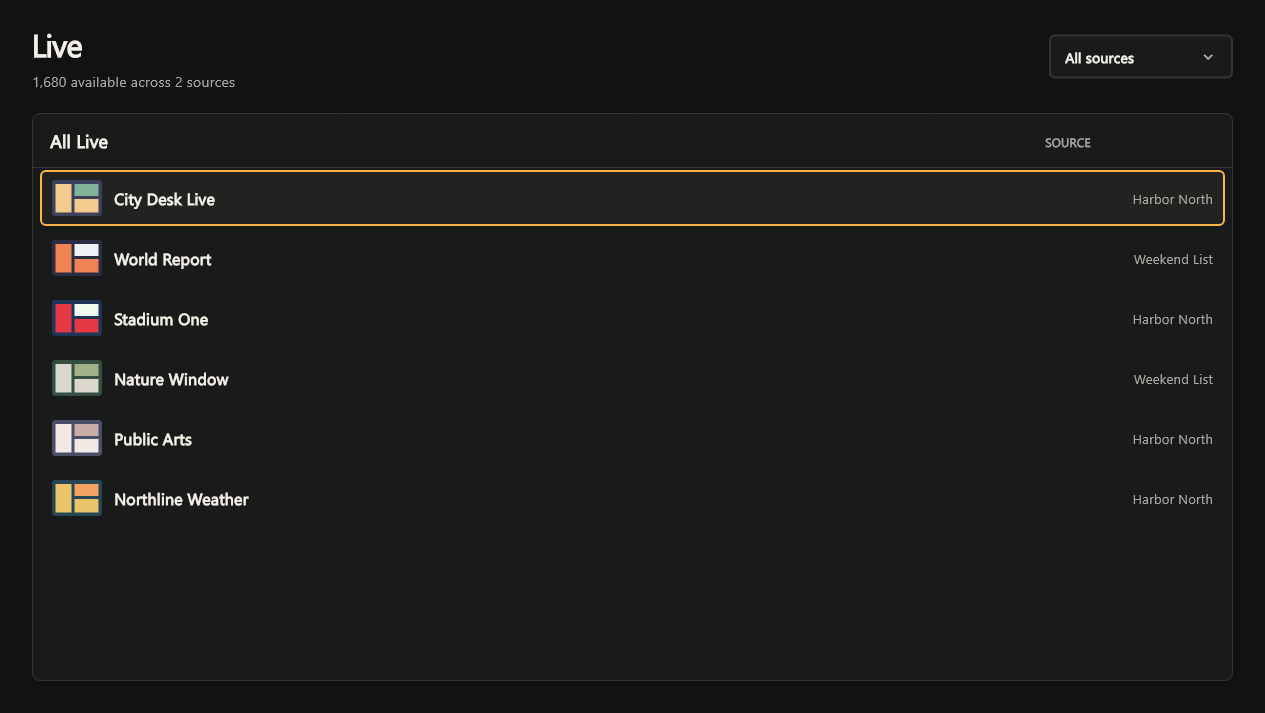
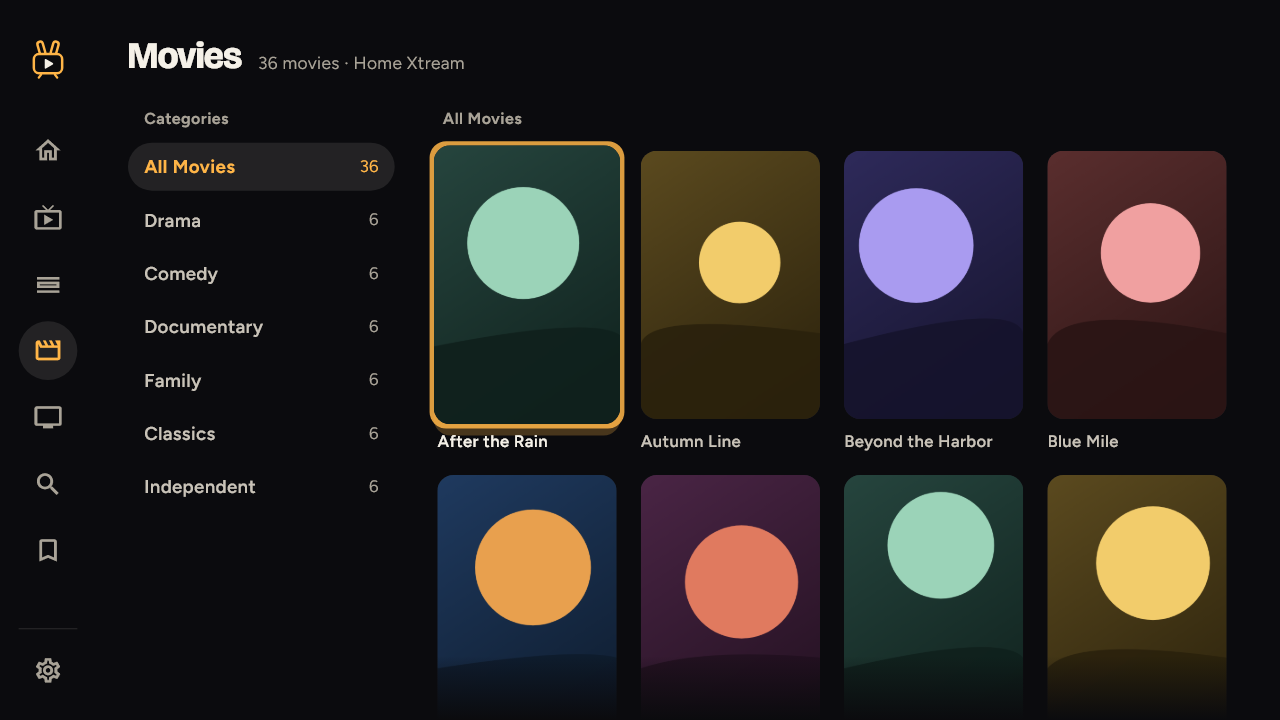
Build the Android APK in CI; refresh the README for Android TV
- CI gains an Android job (Ubuntu, JDK 17) that builds the release APK.
  Format, analyze and tests still run once, in the Windows job.
- README: Windows and Android TV, new screenshots of the redesigned
  Home, Movies, Guide and player (rendered from made-up sample data),
  Android build and sideload steps, TV remote keys, and a current
  roadmap.
- The player fixture app uses the Night Cinema theme.

diff --git a/lib/src/spikes/phase1/production_player_fixture_main.dart b/lib/src/spikes/phase1/production_player_fixture_main.dart
@@ -4,6 +4,7 @@ import 'dart:io';
 import 'package:flutter/material.dart';
 import 'package:window_manager/window_manager.dart';
 
+import '../../cinema.dart';
 import '../../features/browse/playback_handoff.dart';
 import '../../features/playback/playback_transport.dart';
 import '../../features/playback/player_screen.dart';
@@ -34,15 +35,15 @@ class _ProductionPlayerFixtureApp extends StatelessWidget {
     theme: ThemeData(
       useMaterial3: true,
       brightness: Brightness.dark,
-      scaffoldBackgroundColor: const Color(0xFF111212),
+      scaffoldBackgroundColor: Cinema.ink,
       colorScheme: const ColorScheme.dark(
-        primary: Color(0xFFFFB347),
-        onPrimary: Color(0xFF17120A),
-        surface: Color(0xFF191A1A),
-        onSurface: Color(0xFFF4F0E7),
-        secondary: Color(0xFFBEBAB1),
+        primary: Cinema.amber,
+        onPrimary: Cinema.amberInk,
+        surface: Color(0xFF16161B),
+        onSurface: Cinema.text,
+        secondary: Cinema.quiet,
       ),
-      fontFamily: 'Segoe UI',
+      fontFamily: 'Figtree',
     ),
     home: const _ProductionPlayerFixture(),
   );
@@ -66,7 +67,7 @@ class _ProductionPlayerFixtureState extends State<_ProductionPlayerFixture> {
         body: Center(
           child: Text(
             'Player fixture exited',
-            style: TextStyle(color: Color(0xFFF4F0E7), fontSize: 16),
+            style: TextStyle(color: Cinema.text, fontSize: 16),
           ),
         ),
       );
@@ -139,12 +140,12 @@ class _FixturePlaybackTransport implements PlaybackTransport {
 
   @override
   Widget buildVideo() => const ColoredBox(
-    color: Color(0xFF292A29),
+    color: Color(0xFF1E1E23),
     child: Center(
       child: Text(
         'Synthetic video fixture',
         style: TextStyle(
-          color: Color(0xFFF4F0E7),
+          color: Cinema.text,
           fontSize: 16,
           fontWeight: FontWeight.w600,
         ),

diff --git a/README.md b/README.md
@@ -4,31 +4,31 @@
 
 # Wabbit TV
 
-**A calm, fast IPTV player for Windows that brings your own sources together in one library.**
+**A calm, fast IPTV player for Windows and Android TV that brings your own sources together in one library.**
 
 [![CI](https://github.com/tcurtsinger/WabbitTV/actions/workflows/ci.yml/badge.svg)](https://github.com/tcurtsinger/WabbitTV/actions/workflows/ci.yml)
 [![License: AGPL v3](https://img.shields.io/badge/license-AGPL--3.0-blue.svg)](LICENSE)
-![Platform: Windows](https://img.shields.io/badge/platform-Windows%2010%20%7C%2011-0078D4)
+![Platforms: Windows and Android TV](https://img.shields.io/badge/platform-Windows%20%7C%20Android%20TV-0078D4)
 ![Flutter 3.47](https://img.shields.io/badge/Flutter-3.47-02569B?logo=flutter)
 
 </div>
 
-Wabbit TV turns large Xtream and M3U catalogs into one quiet, keyboard-first library. Live TV, movies and series from all your sources sit side by side, search is instant, and everything stays on your PC.
+Wabbit TV turns large Xtream and M3U catalogs into one quiet library built for a TV remote or a keyboard. Live TV, movies and series from all your sources sit side by side, search is instant, and everything stays on your device.
 
 > [!NOTE]
 > Wabbit TV supplies **no content**: no channels, playlists, movies or series. Use it only with sources you are entitled to access.
 
 <table>
   <tr>
-    <td><img src=".github/readme/home.png" alt="Home with pinned shelves and recently watched"></td>
-    <td><img src=".github/readme/browse.png" alt="Live channels from two sources in one list"></td>
+    <td><img src=".github/readme/home.png" alt="Home with a continue-watching hero, recently watched and a pinned group"></td>
+    <td><img src=".github/readme/browse.png" alt="Movies as a poster wall with categories"></td>
   </tr>
   <tr>
-    <td><img src=".github/readme/guide.png" alt="TV guide grid with now and next programs"></td>
-    <td><img src=".github/readme/multiview.png" alt="Two live channels side by side in multiview"></td>
+    <td><img src=".github/readme/guide.png" alt="TV guide with an on-now panel and a program grid"></td>
+    <td><img src=".github/readme/player.png" alt="Live player showing the current program and what's up next"></td>
   </tr>
 </table>
-<p align="center"><sub>Screenshots use the built-in synthetic sample catalog.</sub></p>
+<p align="center"><sub>Screenshots use made-up sample channels, titles and artwork.</sub></p>
 
 ## Features
 
@@ -45,34 +45,38 @@ Wabbit TV turns large Xtream and M3U catalogs into one quiet, keyboard-first lib
 
 **Watching**
 - Full-screen player with audio and subtitle tracks, resume, and watch history
+- Now and next from the guide right in the player, and a star to add the channel to Favorites
 - Corner picture-in-picture while you keep browsing, and two-channel side-by-side multiview
 - Automatic recovery from network drops, and a fallback to the same channel on another source
 - Respects your provider's connection limit
-- TV guide with now/next for Xtream live channels
+- TV guide for Xtream live channels, with a "With schedule" filter that hides channels without guide data
 - Start up on Home, any section, or straight into your last channel
 
 **Built for the couch and the desk**
-- Every screen works with arrow keys and Enter, with a clear amber focus ring
+- Runs on Windows and on Android TV, Google TV and Fire TV
+- Every screen works with a TV remote or arrow keys, with a clear amber focus ring
 - On-screen TV keyboard for remote-style text entry
 
 ## Privacy and security
 
-- **Local-first.** Your catalog, favorites, groups and history live in a SQLite database on your PC. No accounts, no telemetry, no Wabbit servers.
+- **Local-first.** Your catalog, favorites, groups and history live in a SQLite database on your device. No accounts, no telemetry, no Wabbit servers.
 - **Network use.** Wabbit TV only connects to the sources you add, and to the stream, artwork and guide addresses those sources hand it.
-- **Logins.** Xtream passwords are encrypted with your Windows account (DPAPI) and never stored in the catalog database.
+- **Logins.** Xtream passwords are encrypted with your Windows account (DPAPI) or the Android Keystore, and never stored in the catalog database.
 - **Secure streams.** HTTPS streams are verified against a bundled Mozilla root certificate list.
 
 ## Getting started
 
 There are no prebuilt releases yet, so you build it from source.
 
-### Requirements
+### Windows
+
+**Requirements**
 
 - Windows 10 or 11 (64-bit)
 - [Flutter](https://docs.flutter.dev/get-started/install/windows/desktop) 3.47 (stable)
 - Visual Studio 2022 (Build Tools are enough) with the **Desktop development with C++** workload and the **C++ ATL** component
 
-### Build and run
+**Build and run**
 
 ```powershell
 git clone https://github.com/tcurtsinger/WabbitTV.git
@@ -92,12 +96,27 @@ The app ends up at `build\windows\x64\runner\Release\wabbit_tv.exe`. Open it, ch
 > [!TIP]
 > If the build hangs while CMake detects the compiler, run `$env:TrackFileAccess = 'false'` in that PowerShell window and build again.
 
+### Android TV, Google TV and Fire TV
+
+**Requirements:** Flutter 3.47, the Android SDK (from Android Studio or the command-line tools) and JDK 17.
+
+1. Turn on **Developer options** and **ADB debugging** on the TV. On Fire TV this is under *Settings → My Fire TV*.
+2. Build the APK and install it over the network:
+
+```powershell
+flutter build apk --release
+adb connect <tv-ip-address>:5555
+adb install -r build\app\outputs\flutter-apk\app-release.apk
+```
+
+Wabbit TV then appears with your other apps. The release APK is signed with a debug key, which is fine for sideloading but not for a store.
+
 ## Keyboard shortcuts
 
 | Where | Keys | Action |
 |---|---|---|
-| Everywhere | Arrow keys, Enter | Move focus, select |
-| Everywhere | Esc | Back / open the navigation rail |
+| Everywhere | Arrow keys, Enter (TV: D-pad, Select) | Move focus, select |
+| Everywhere | Esc (TV: Back) | Back / open the navigation rail |
 | Player | Space, K, media Play/Pause | Play / pause |
 | Player | ← / → | Seek back / forward 10 s (movies and episodes; hold to keep seeking) |
 | Player | F, or double-click the video | Fullscreen on / off |
@@ -108,10 +127,10 @@ The app ends up at `build\windows\x64\runner\Release\wabbit_tv.exe`. Open it, ch
 ```powershell
 dart format lib test   # formatting
 flutter analyze        # static analysis
-flutter test           # 600+ unit and widget tests
+flutter test           # 640+ unit and widget tests
 ```
 
-GitHub Actions runs all of these, plus a release build, on every pull request.
+GitHub Actions runs all of these, plus Windows and Android release builds, on every pull request.
 
 <details>
 <summary><b>Synthetic preview fixtures and probes</b></summary>
@@ -135,6 +154,7 @@ lib/
 ├── main.dart
 └── src/
     ├── app_shell.dart        # navigation rail, routing, playback surfaces
+    ├── cinema.dart           # design tokens, focus glow, pill buttons, the Wabbit mark
     └── features/
         ├── sources/          # Xtream + M3U import, SQLite catalog, credentials
         ├── browse/           # Live / Movies / Series lists
@@ -149,8 +169,8 @@ lib/
 
 ## Roadmap
 
-- **Android TV, Google TV and Fire TV.** The interface is already remote-first. Next comes the Android build.
-- Prebuilt Windows releases
+- Prebuilt releases for Windows and Android TV
+- A full XMLTV guide download for providers that block per-channel guide requests
 
 ## Built with
 
